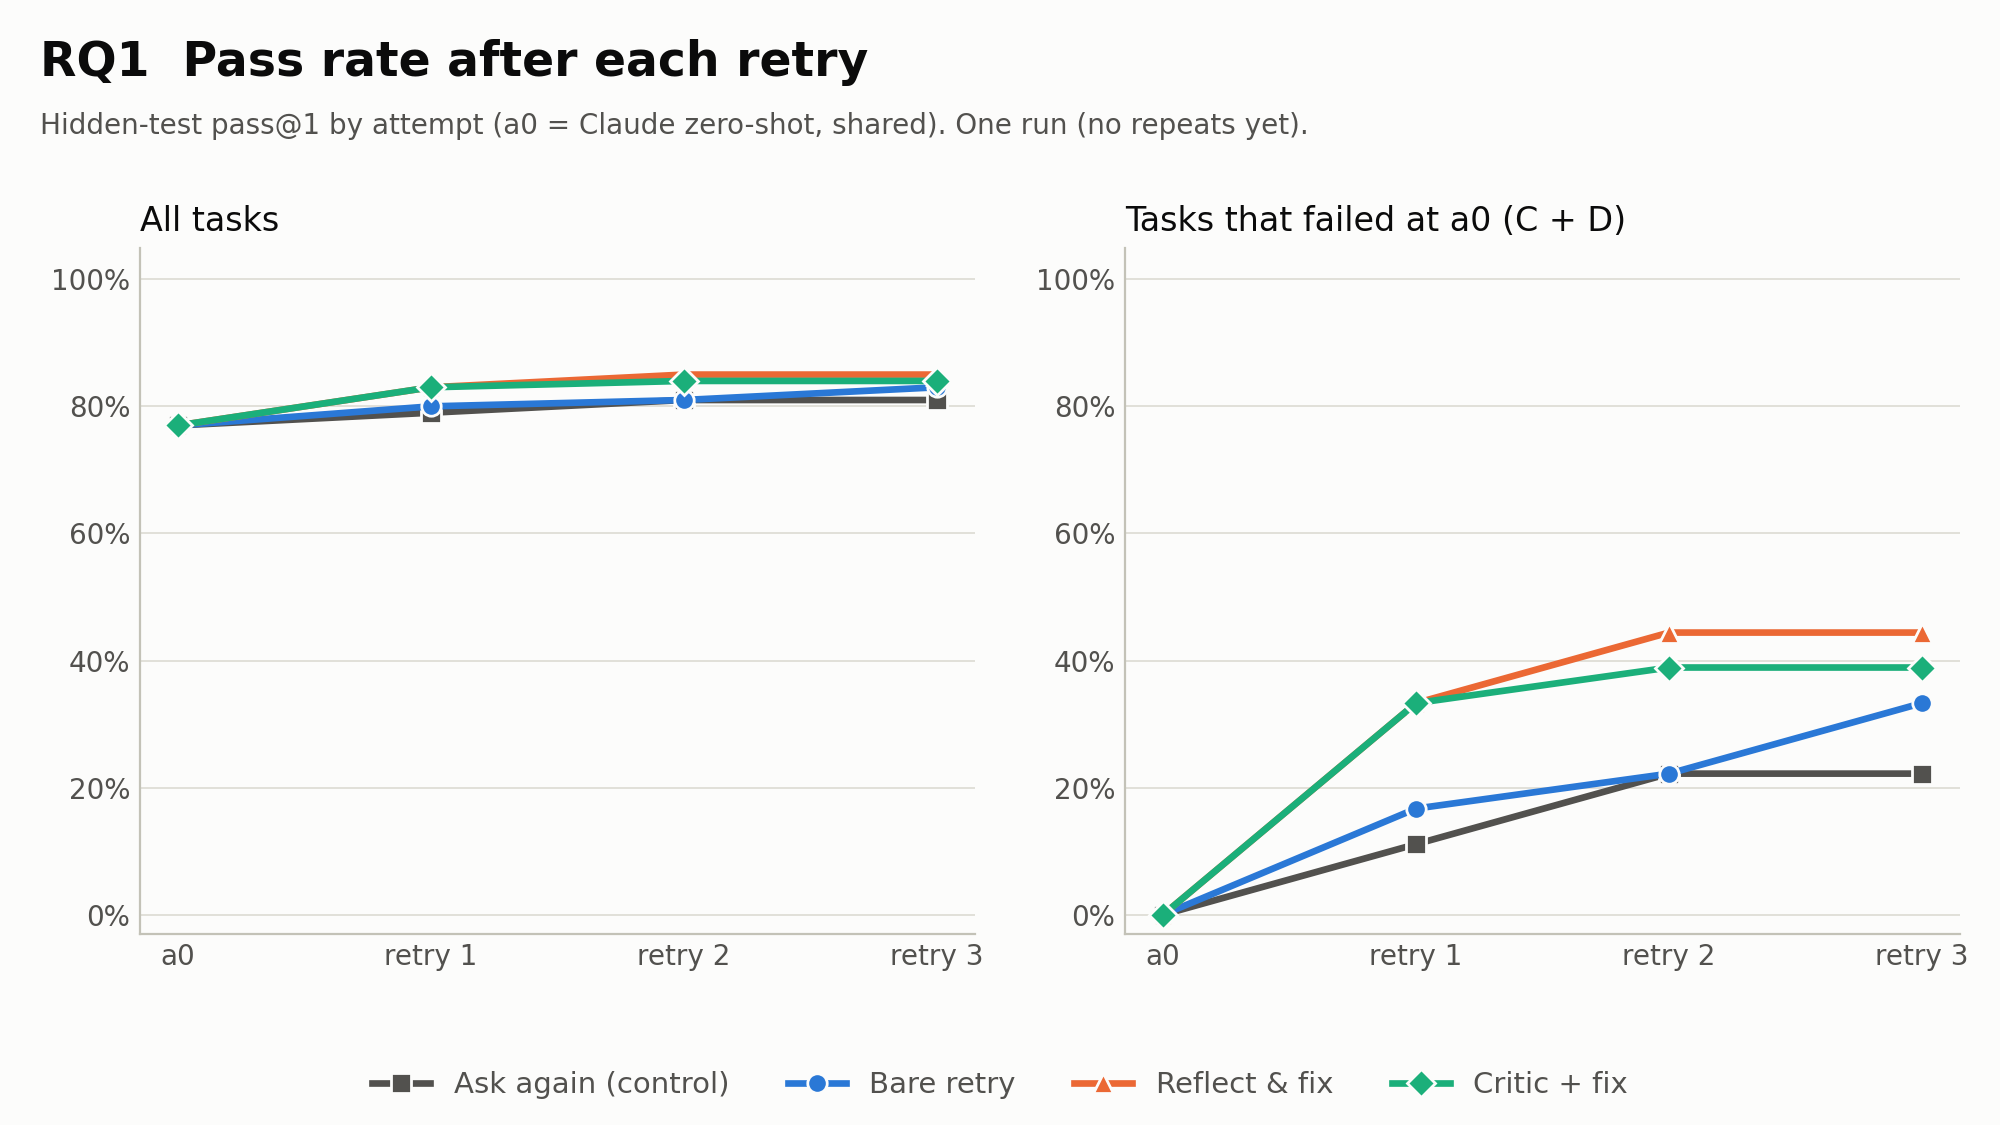
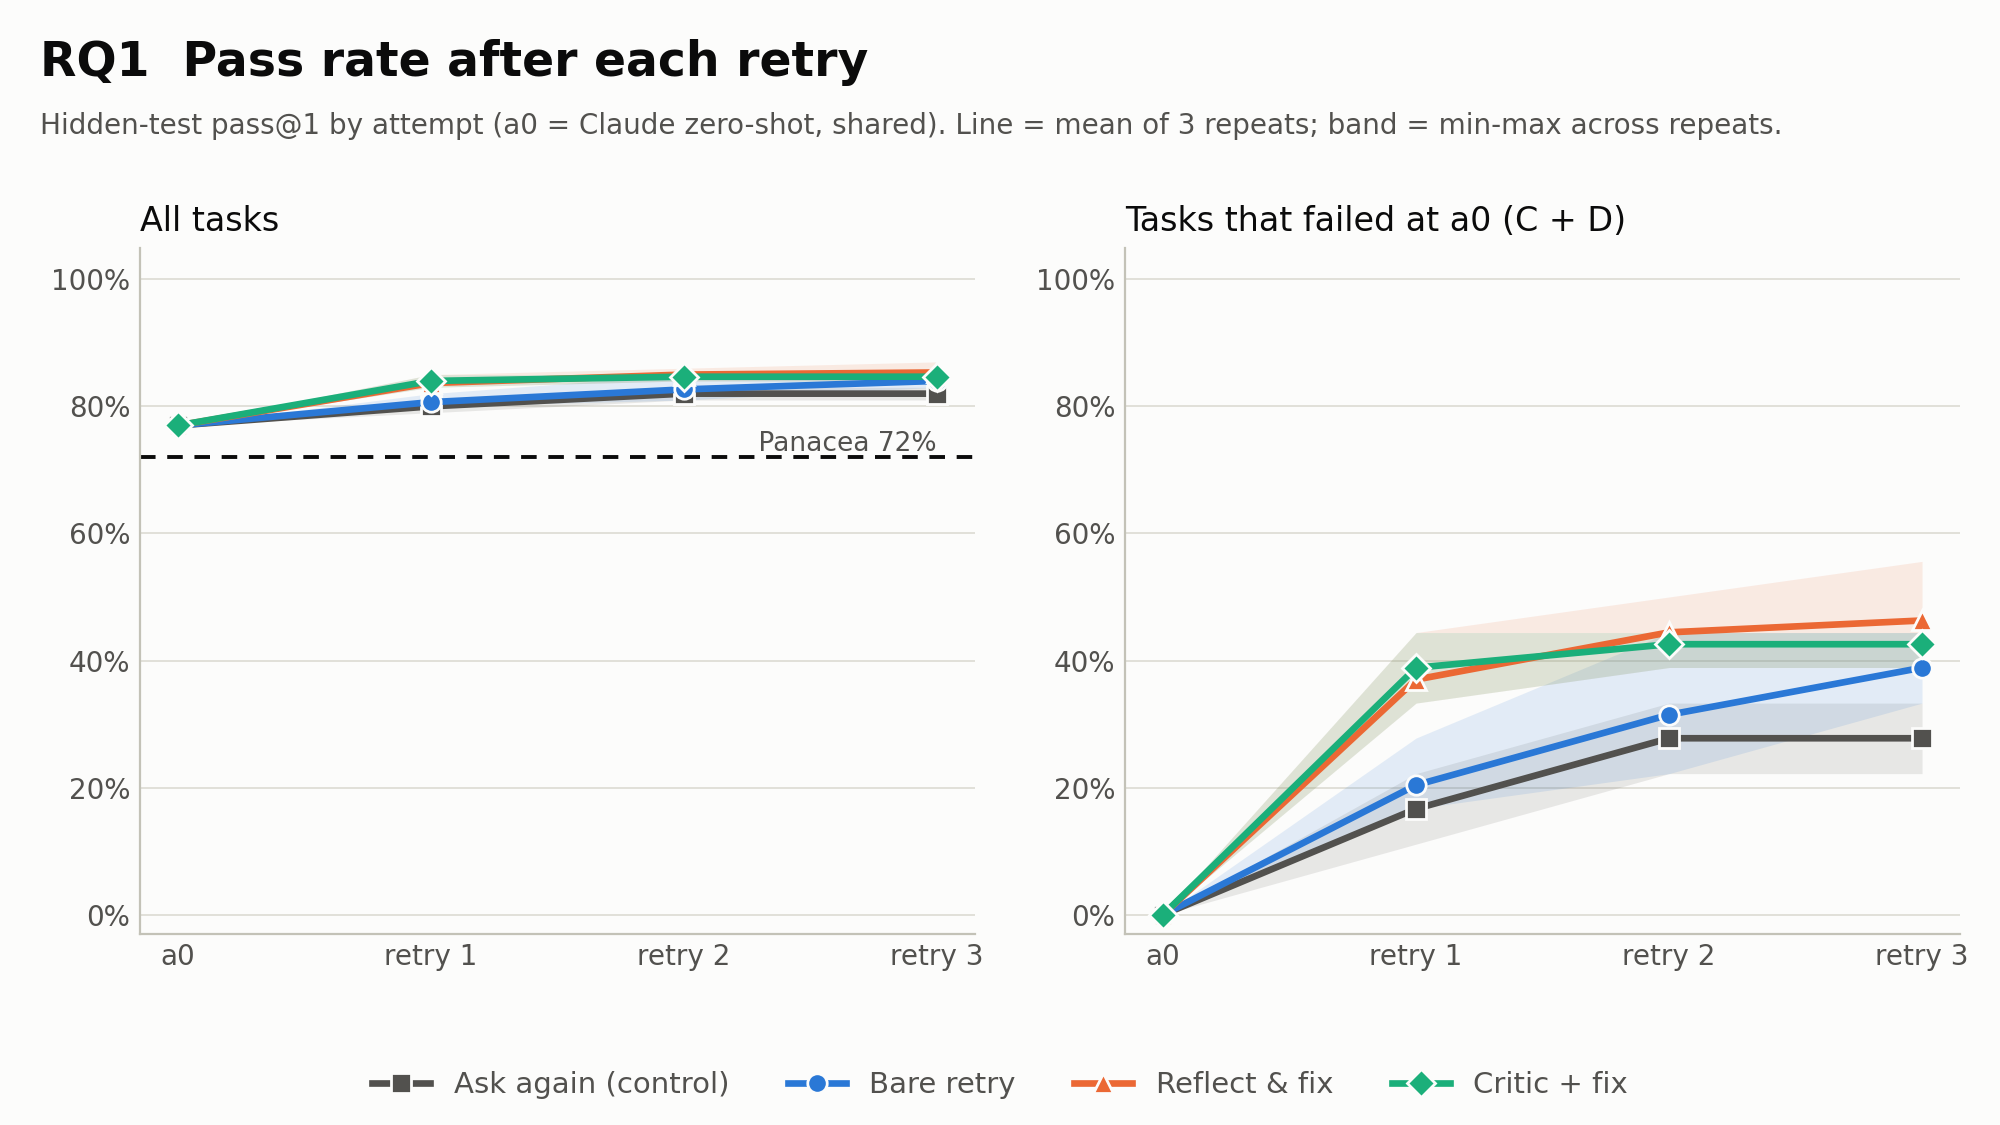
Final slide pack: test run + 2 repeats + Panacea
presentation.py: clip the cost chart's error bars at 0. Zero-shot is identical in
every repeat, so mean - min came out as a tiny negative float and matplotlib refused it.

Changed region(s): [[0.589, 0.4978, 0.992, 0.8089], [0.124, 0.3111, 0.496, 0.4044], [0.465, 0.0933, 0.899, 0.1244]]

diff --git a/Optimizer/presentation.py b/Optimizer/presentation.py
@@ -363,7 +363,8 @@ def chart_cost(tb, R, banner, out):
         y, yl, yh = _rng(r, "hidden_pass@1")
         if _nan(x):
             continue
-        ax.errorbar(x, y, xerr=[[x - xl], [xh - x]] if R > 1 else None, yerr=[[y - yl], [yh - y]] if R > 1 else None,
+        ax.errorbar(x, y, xerr=[[max(0, x - xl)], [max(0, xh - x)]] if R > 1 else None,
+                    yerr=[[max(0, y - yl)], [max(0, yh - y)]] if R > 1 else None,
                     fmt=C.MARKERS.get(s, "o"), color=C._color(s), ms=11, capsize=3, lw=1.2,
                     markeredgecolor=C.T["surface"])
         extra = "" if _nan(r.get("cost_per_repair_usd_mean")) else f", ${r['cost_per_repair_usd_mean']:.3f}/repair"

diff --git a/data/results/presentation/2026-11-18_claude_test_eval100_1/slides.md b/data/results/presentation/2026-11-18_claude_test_eval100_1/slides.md
@@ -1,8 +1,8 @@
-# Results slides: 2026-11-18_claude_test_eval100_1
+# Results slides: 2026-11-18_claude_test_eval100_1 + 2 repeat(s)
 
-- Runs: 2026-11-18_claude_test_eval100_1
+- Runs: 2026-11-18_claude_test_eval100_1, 2026-11-25_claude_test_eval100_1, 2026-11-25_claude_test_eval100_2
 - Model claude-sonnet-4-6, temperature 0.5, max_tokens 4096, 100 tasks, 3 retries, scoring v5
-- Panacea: not included
+- Panacea: panacea_run.json
 - Ranges are min to max across repeats. Pass@1 is on the hidden tests unless it says public.
 
 ## Slide: RQ1. Does feedback help Claude fix its own code?
@@ -13,17 +13,17 @@ Chart: `charts/rq1_gain_vs_control.png` (backup: `charts/rq1_accuracy_by_attempt
 
 | arm | pass@1 on retried tasks | gain vs control | repairs | breaks | significant |
 |---|---|---|---|---|---|
-| Ask again (control) | 22% | +0 pts | 4 | 0 | - |
-| Bare retry | 33% | +11 pts | 6 | 0 | 0/1 |
-| Reflect & fix | 44% | +22 pts | 8 | 0 | 0/1 |
-| Critic + fix | 39% | +17 pts | 7 | 0 | 0/1 |
+| Ask again (control) | 28% (22% to 33%) | +0 pts | 5 (4 to 6) | 0 | - |
+| Bare retry | 39% (33% to 44%) | +11 pts | 7 (6 to 8) | 0 | 0/3 |
+| Reflect & fix | 46% (39% to 56%) | +19 pts (+6 pts to +28 pts) | 8.3 (7 to 10) | 0 | 0/3 |
+| Critic + fix | 43% (39% to 44%) | +15 pts (+11 pts to +17 pts) | 7.7 (7 to 8) | 0 | 0/3 |
 
 What the numbers show:
 
 - 18 task(s) failed at attempt 0 and went into the arms; each task is worth about 6 points.
-- Bare retry: +11 pts vs the control; significant (McNemar, Holm p < 0.05) in 0 of 1 repeat(s).
-- Reflect & fix: +22 pts vs the control; significant (McNemar, Holm p < 0.05) in 0 of 1 repeat(s).
-- Critic + fix: +17 pts vs the control; significant (McNemar, Holm p < 0.05) in 0 of 1 repeat(s).
+- Bare retry: +11 pts vs the control; significant (McNemar, Holm p < 0.05) in 0 of 3 repeat(s).
+- Reflect & fix: +19 pts (+6 pts to +28 pts) vs the control; significant (McNemar, Holm p < 0.05) in 0 of 3 repeat(s).
+- Critic + fix: +15 pts (+11 pts to +17 pts) vs the control; significant (McNemar, Holm p < 0.05) in 0 of 3 repeat(s).
 - "Not significant" means this run can't tell the arms apart, not that they are equal.
 
 Source: `tables/headline.csv` (gain_vs_control_paired, repairs, breaks, significant_repeats), `tables/curves.csv`
@@ -35,27 +35,39 @@ Chart: `charts/rq2_accuracy_vs_cost.png`
 | system | pass@1 (all tasks) | pipeline cost | calls | $ per repair |
 |---|---|---|---|---|
 | Claude zero-shot | 77% | $2.085 | 100 | - |
-| Ask again (control) | 81% | $4.322 | 158 | $0.559 |
-| Bare retry | 83% | $3.805 | 151 | $0.287 |
-| Reflect & fix | 85% | $4.175 | 150 | $0.261 |
-| Critic + fix | 84% | $4.198 | 184 | $0.302 |
+| Ask again (control) | 82% (81% to 83%) | $4.125 ($4.025 to $4.322) | 152 (149 to 158) | $0.424 ($0.324 to $0.559) |
+| Bare retry | 84% (83% to 85%) | $3.655 ($3.476 to $3.805) | 148 (145 to 151) | $0.230 ($0.174 to $0.287) |
+| Reflect & fix | 85% (84% to 87%) | $4.219 ($4.125 to $4.358) | 149 (146 to 151) | $0.263 ($0.204 to $0.325) |
+| Critic + fix | 85% (84% to 85%) | $4.038 ($3.858 to $4.198) | 178.7 (173 to 184) | $0.257 ($0.222 to $0.302) |
+| Panacea agent | 72% | $4.089 | 199 | - |
 
 Source: `tables/headline.csv` (pipeline_cost_usd, cost_per_repair_usd)
 
 ## Slide: RQ3. Panacea vs Claude zero-shot
 
-Panacea is not in this pack yet. Run `python Baseline/baseline.py panacea --ids <same task list>`, then rerun this script with `--panacea <that file>`.
+Chart: `charts/rq3_panacea_vs_claude.png`
+
+| system | hidden pass@1 | public pass@1 | false passes | cost | A true pass | B false pass | C hidden-only pass | D true fail | API failed |
+|---|---|---|---|---|---|---|---|---|---|
+| Claude zero-shot | 77% | 82% | 5 | $2.085 | 77 | 5 | 0 | 18 | 0 |
+| Panacea agent | 72% | 80% | 10 | $4.089 | 70 | 10 | 2 | 16 | 2 |
+
+False pass = passes the public tests but fails the hidden ones (looks right, isn't).
+
+Source: `tables/headline.csv`, `tables/cells.csv`
 
 ## Slide: RQ4. Where do the models fail?
 
 Chart: `charts/rq4_where_models_fail.png`
 
-| failure_type | Claude zero-shot |
-|---|---|
-| passed | 77.0 |
-| runtime_error | 1.0 |
-| timeout | 2.0 |
-| wrong_answer | 20.0 |
+| failure_type | Panacea agent | Claude zero-shot |
+|---|---|---|
+| failed_api_call | 2.0 | 0.0 |
+| passed | 72.0 | 77.0 |
+| runtime_error | 0.0 | 1.0 |
+| syntax_error | 1.0 | 0.0 |
+| timeout | 3.0 | 2.0 |
+| wrong_answer | 22.0 | 20.0 |
 
 Source: `tables/failure_types.csv`, `tables/by_difficulty.csv`
 
@@ -63,10 +75,10 @@ Source: `tables/failure_types.csv`, `tables/by_difficulty.csv`
 
 | arm | answers | told | cut_off_again |
 |---|---|---|---|
-| Ask again (control) | 23 | 0 | 19 |
-| Bare retry | 22 | 0 | 13 |
-| Reflect & fix | 19 | 19 | 12 |
-| Critic + fix | 17 | 17 | 8 |
+| Ask again (control) | 67 | 0 | 55 |
+| Bare retry | 54 | 0 | 30 |
+| Reflect & fix | 59 | 59 | 37 |
+| Critic + fix | 52 | 52 | 26 |
 
 Reflect & fix and Critic are told; the control and bare retry never are. Fewer "cut off again" in the told arms would mean the note helps. Summed over repeats.
 
@@ -75,5 +87,5 @@ Source: `tables/cut_off_note.csv` (summary.json after_cut_off)
 ## Reproduce
 
 ```bash
-python Optimizer/presentation.py data/results/2026-11-18_claude_test_eval100_1
+python Optimizer/presentation.py data/results/2026-11-18_claude_test_eval100_1 data/results/2026-11-25_claude_test_eval100_1 data/results/2026-11-25_claude_test_eval100_2 --panacea panacea_run.json
 ```

diff --git a/data/results/presentation/2026-11-18_claude_test_eval100_1/runs_index.md b/data/results/presentation/2026-11-18_claude_test_eval100_1/runs_index.md
@@ -2,7 +2,7 @@
 
 Every run in `data/results/`. Current scoring version: 5. Only finished `test` runs on the current scoring version are results; everything else checks the plumbing or the cost.
 
-Total spent across these runs: $18.95
+Total spent across these runs: $38.05
 
 | run | started | split | model | tasks | task_list | scoring_version | attempt0_from | calls | cost_usd | zero_shot_hidden_pass@1 | finished | reportable | why_not |
 |---|---|---|---|---|---|---|---|---|---|---|---|---|---|
@@ -14,3 +14,5 @@ Total spent across these runs: $18.95
 | 2026-11-12_claude_dev_1 | 2026-11-12 | dev | claude-sonnet-4-6 | 10 | - | 3 | 2026-11-11_claude_dev_1 | 29 | 1.026 | 0.800 | True | False | dev split (only test runs are results); scoring v3 (current v5) |
 | 2026-11-12_claude_dev_2 | 2026-11-12 | dev | claude-sonnet-4-6 | 10 | - | 4 | - | 18 | 0.478 | 0.600 | True | False | dev split (only test runs are results); scoring v4 (current v5) |
 | 2026-11-18_claude_test_eval100_1 | 2026-11-18 | test | claude-sonnet-4-6 | 100 | eval100.txt | 5 | - | 343 | 10.245 | 0.770 | True | True |  |
+| 2026-11-25_claude_test_eval100_1 | 2026-11-25 | test | claude-sonnet-4-6 | 100 | eval100.txt | 5 | 2026-11-18_claude_test_eval100_1 | 322 | 9.636 | 0.770 | True | True |  |
+| 2026-11-25_claude_test_eval100_2 | 2026-11-25 | test | claude-sonnet-4-6 | 100 | eval100.txt | 5 | 2026-11-18_claude_test_eval100_1 | 318 | 9.465 | 0.770 | True | True |  |

diff --git a/data/results/runs_index.md b/data/results/runs_index.md
@@ -2,7 +2,7 @@
 
 Every run in `data/results/`. Current scoring version: 5. Only finished `test` runs on the current scoring version are results; everything else checks the plumbing or the cost.
 
-Total spent across these runs: $18.95
+Total spent across these runs: $38.05
 
 | run | started | split | model | tasks | task_list | scoring_version | attempt0_from | calls | cost_usd | zero_shot_hidden_pass@1 | finished | reportable | why_not |
 |---|---|---|---|---|---|---|---|---|---|---|---|---|---|
@@ -14,3 +14,5 @@ Total spent across these runs: $18.95
 | 2026-11-12_claude_dev_1 | 2026-11-12 | dev | claude-sonnet-4-6 | 10 | - | 3 | 2026-11-11_claude_dev_1 | 29 | 1.026 | 0.800 | True | False | dev split (only test runs are results); scoring v3 (current v5) |
 | 2026-11-12_claude_dev_2 | 2026-11-12 | dev | claude-sonnet-4-6 | 10 | - | 4 | - | 18 | 0.478 | 0.600 | True | False | dev split (only test runs are results); scoring v4 (current v5) |
 | 2026-11-18_claude_test_eval100_1 | 2026-11-18 | test | claude-sonnet-4-6 | 100 | eval100.txt | 5 | - | 343 | 10.245 | 0.770 | True | True |  |
+| 2026-11-25_claude_test_eval100_1 | 2026-11-25 | test | claude-sonnet-4-6 | 100 | eval100.txt | 5 | 2026-11-18_claude_test_eval100_1 | 322 | 9.636 | 0.770 | True | True |  |
+| 2026-11-25_claude_test_eval100_2 | 2026-11-25 | test | claude-sonnet-4-6 | 100 | eval100.txt | 5 | 2026-11-18_claude_test_eval100_1 | 318 | 9.465 | 0.770 | True | True |  |
